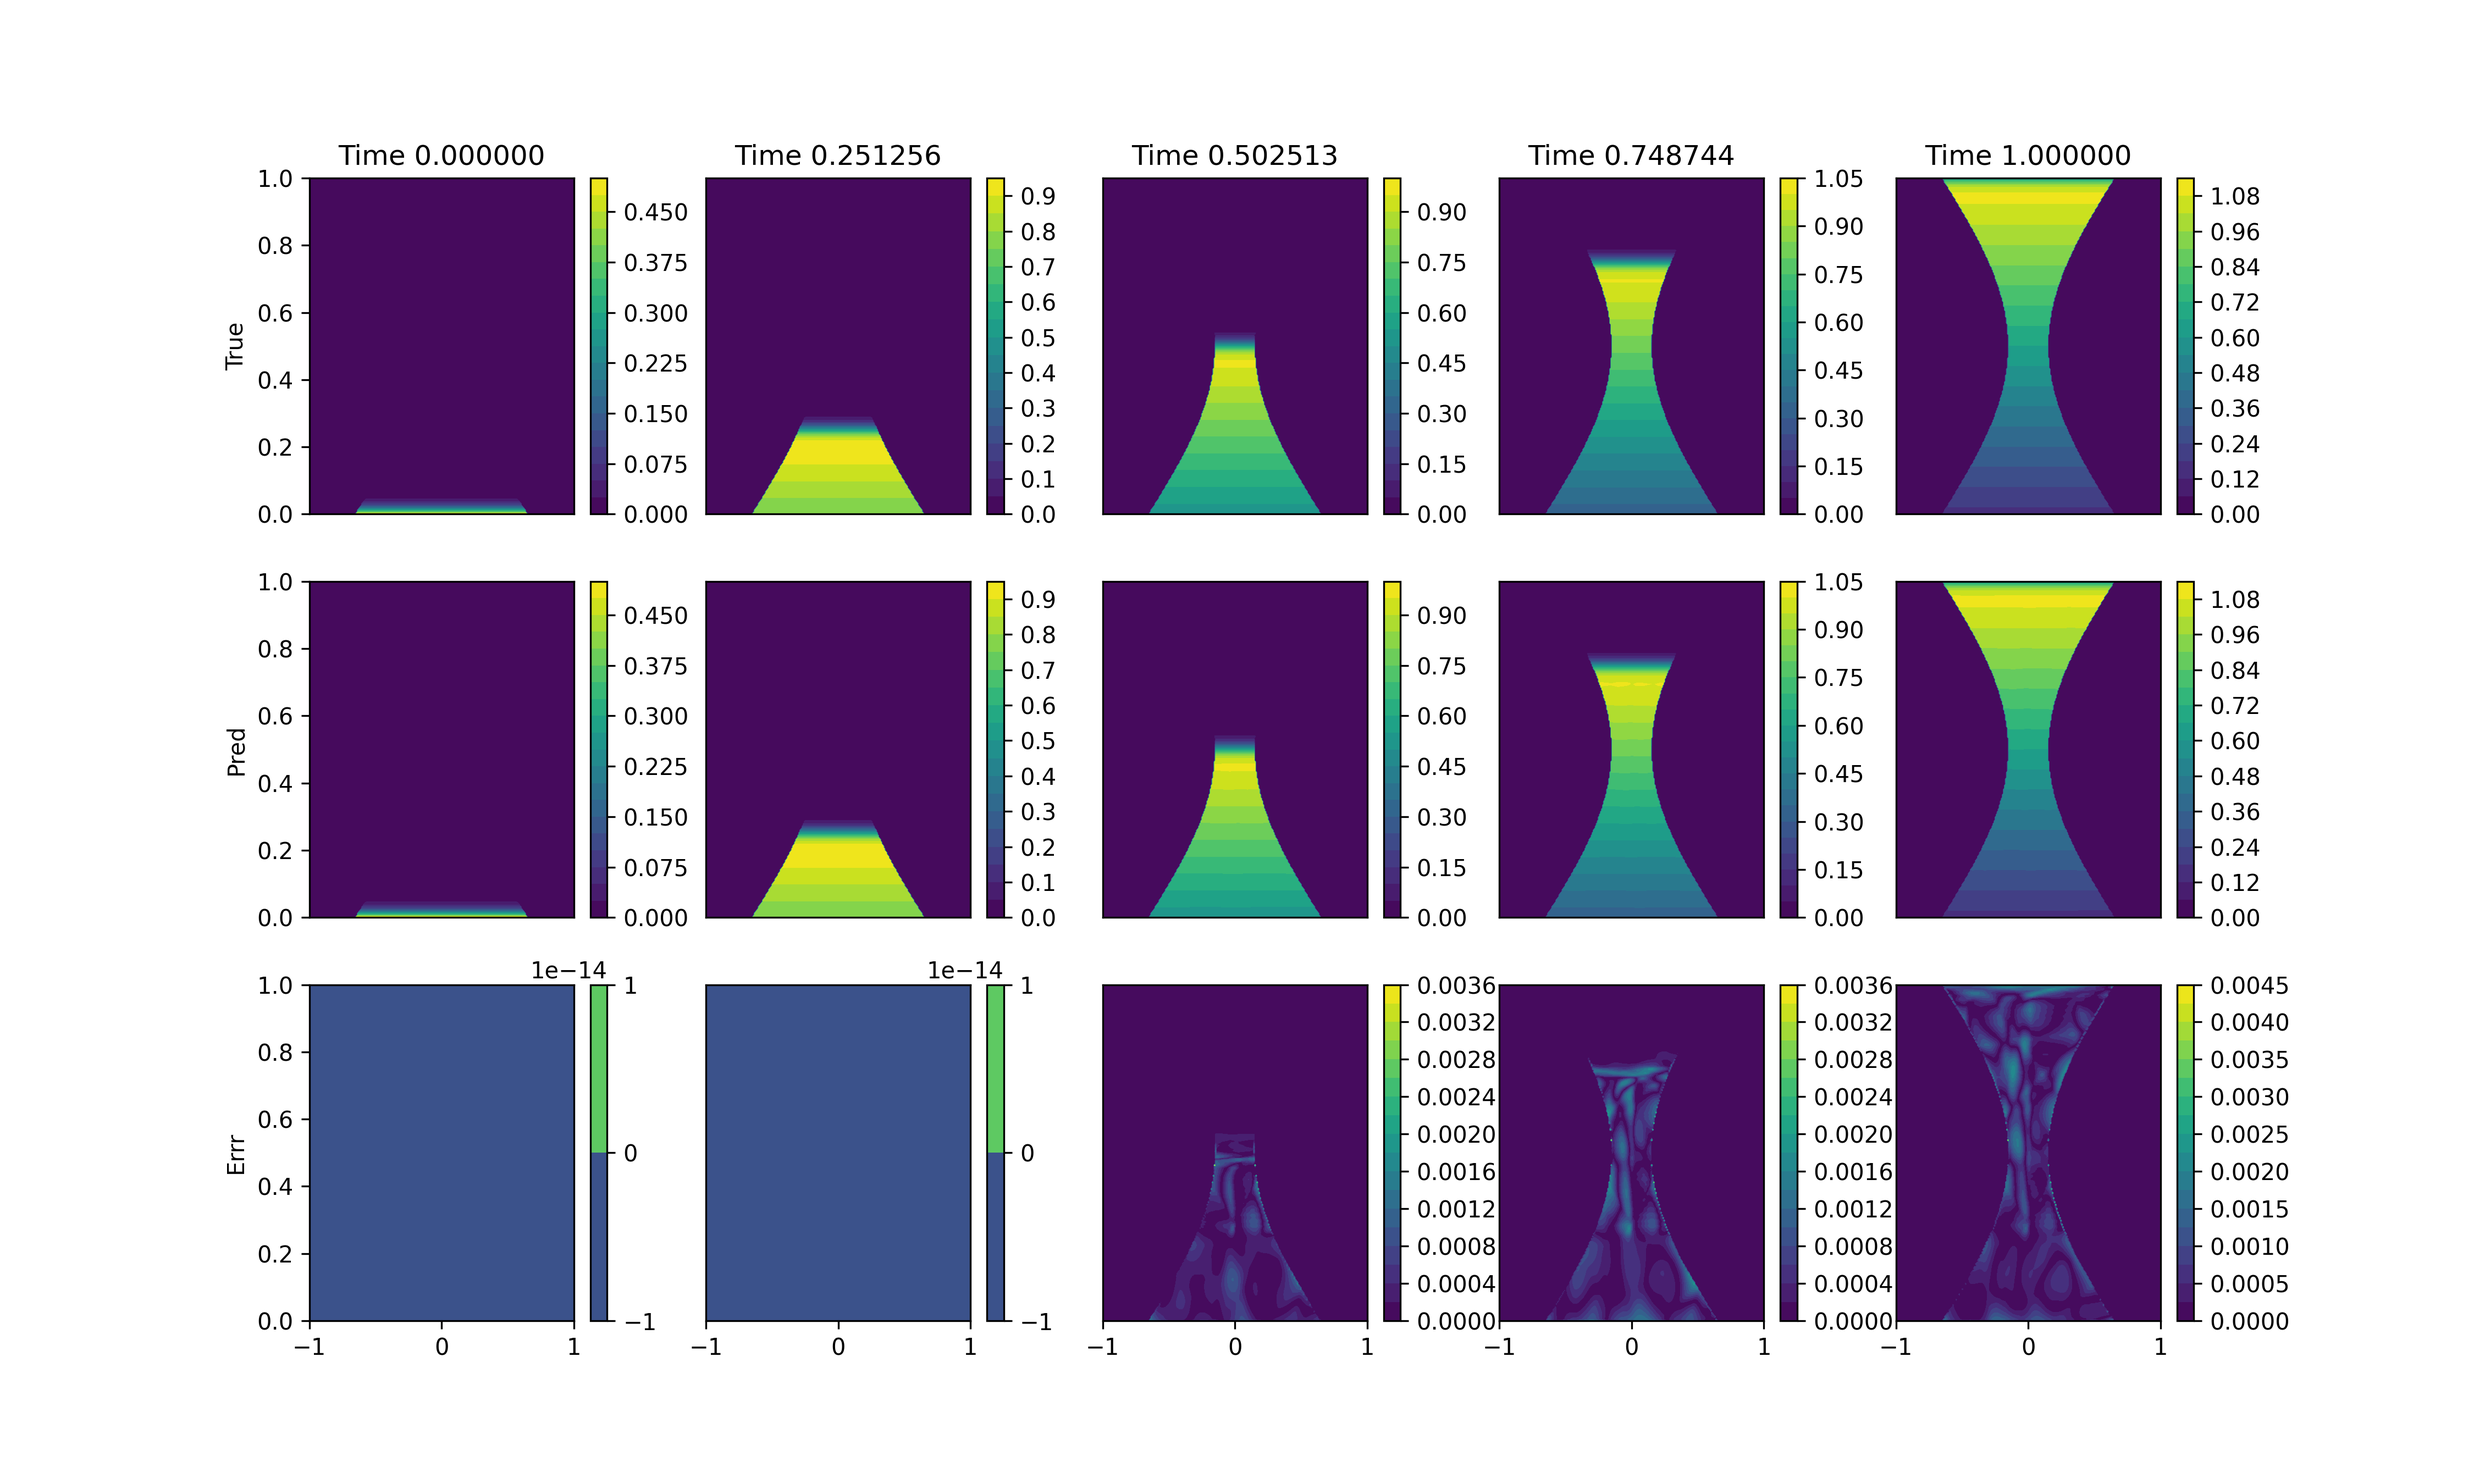
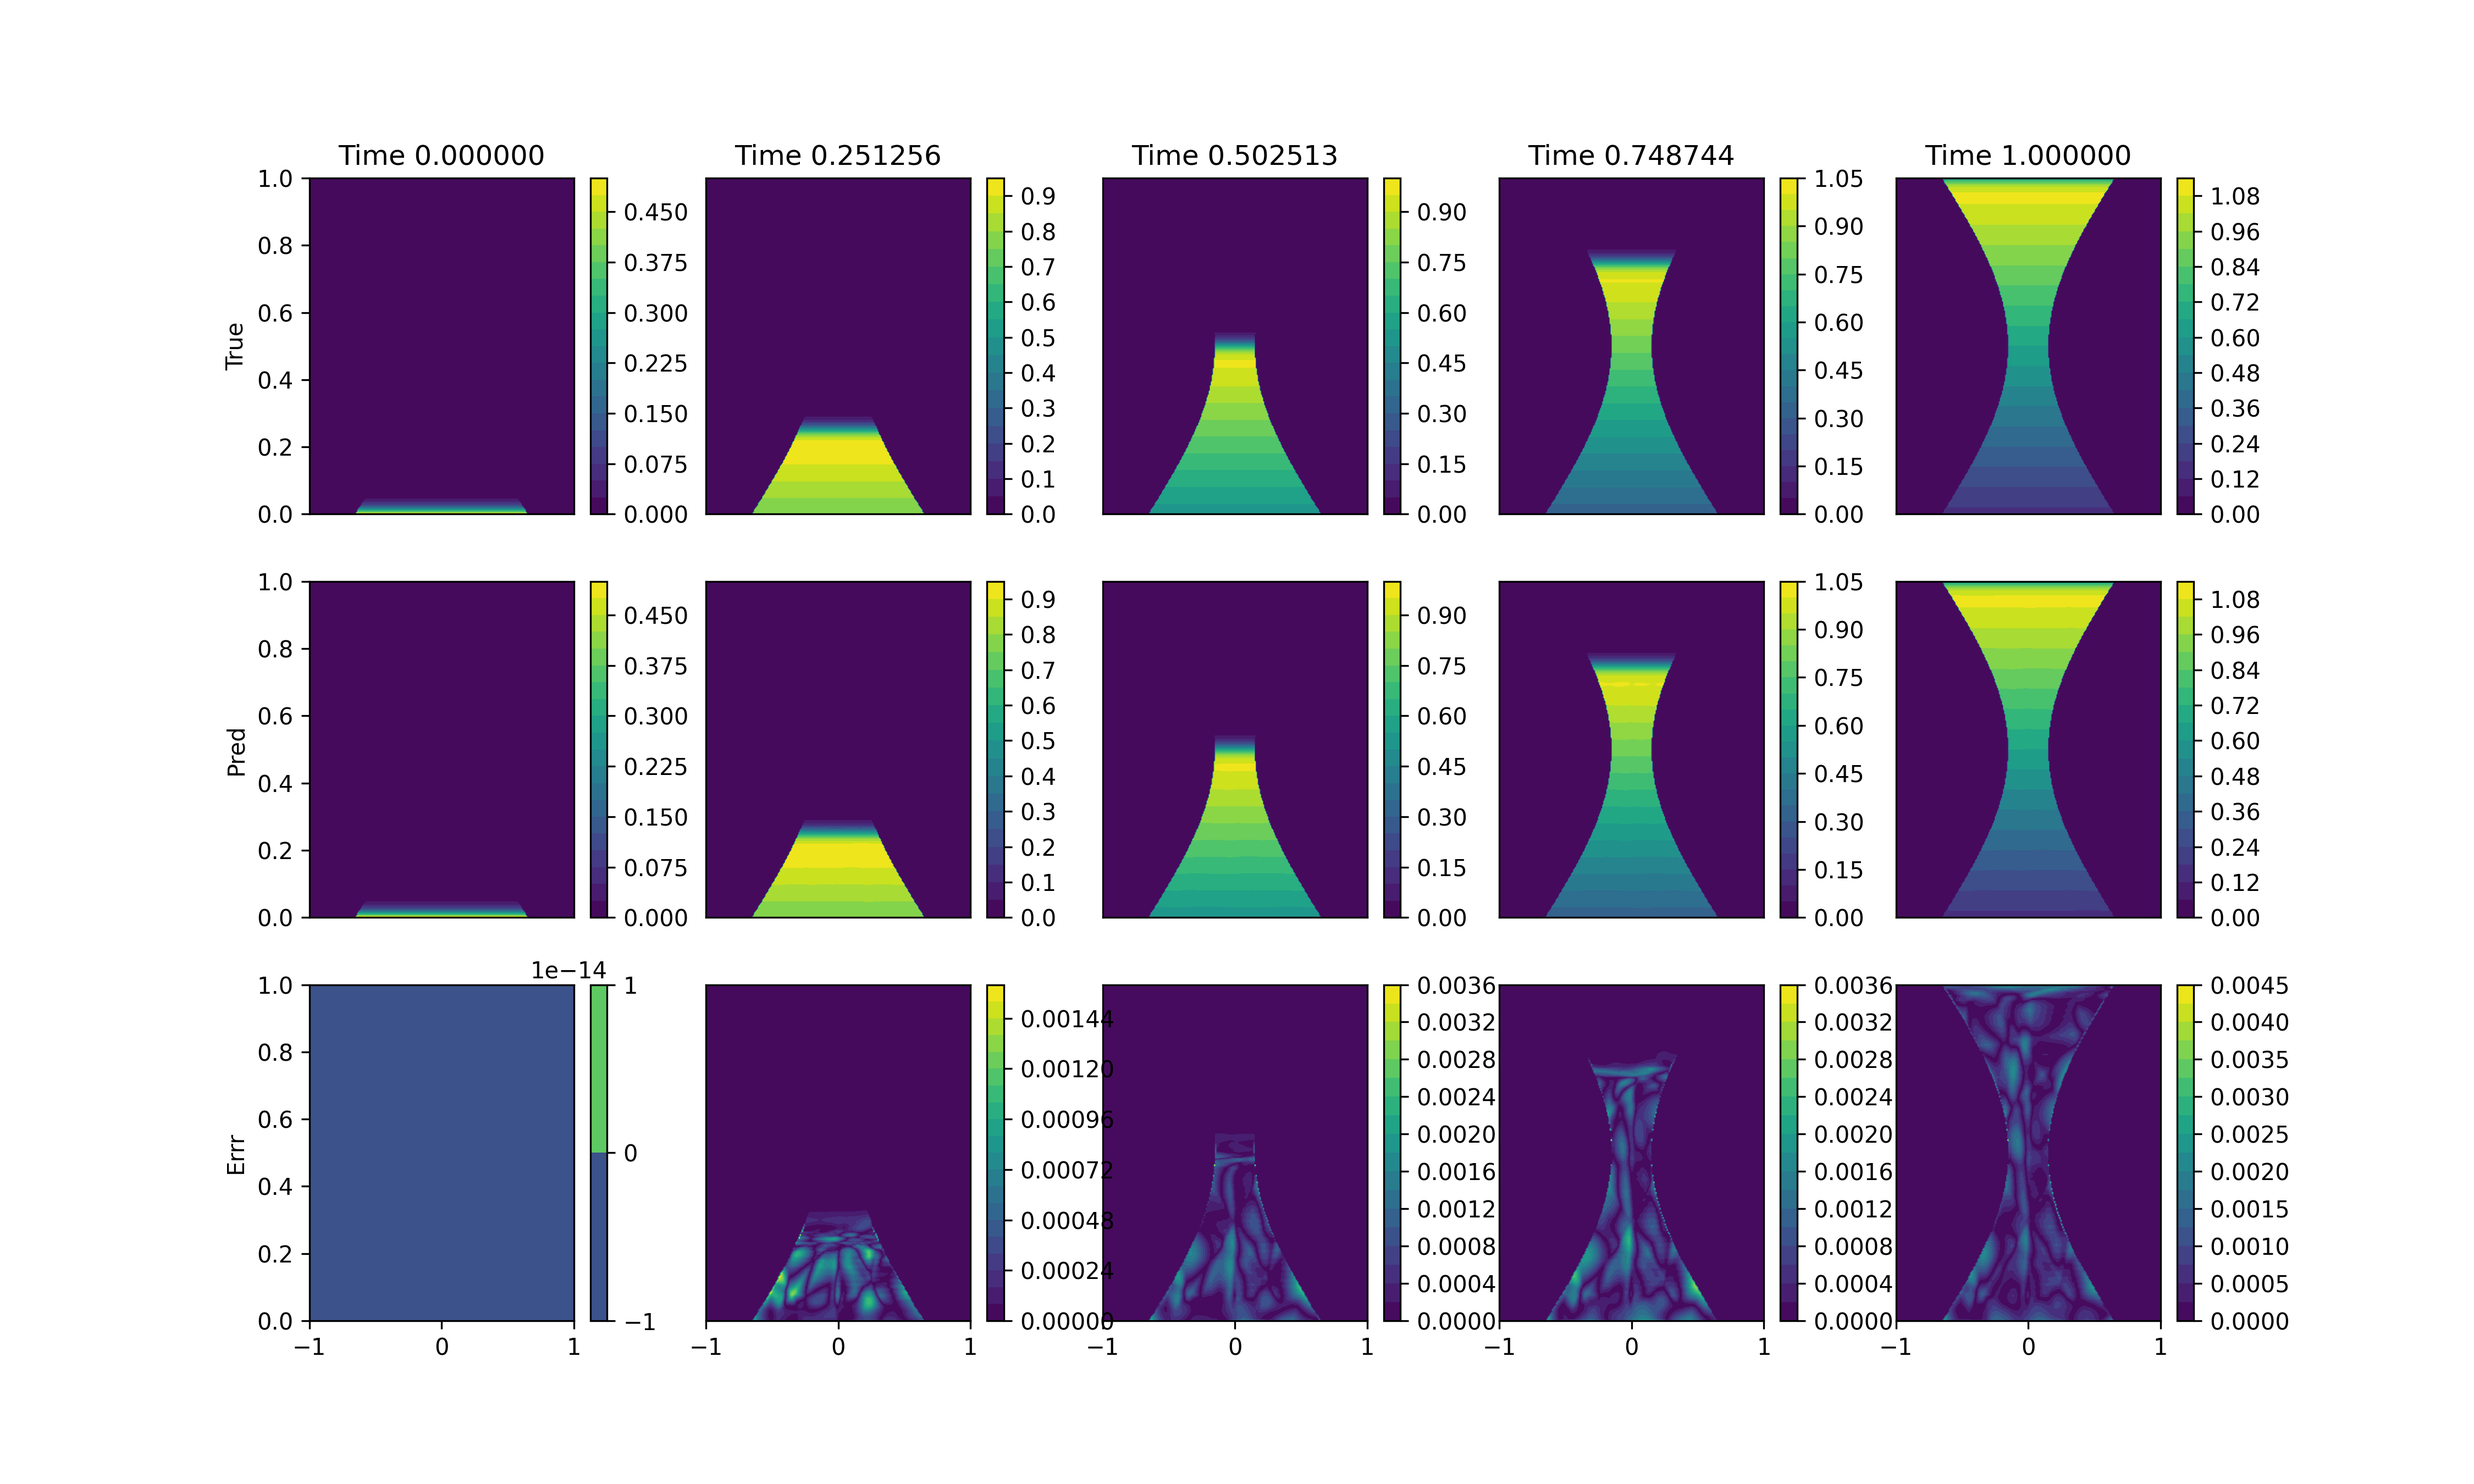
fix rollout to start at 1/8

diff --git a/sandbox/__main__.py b/sandbox/__main__.py
@@ -152,7 +152,7 @@ def train_gnn_nextstep(device, outdir, resdir, name, blend=True, train=True):
         # NEXT STEP AUTOREGRESSIVE
         ####
 
-        K = nt // 3 # 8
+        K = nt // 8 # 8
         temps = []
         graph = data[0].clone()
 
